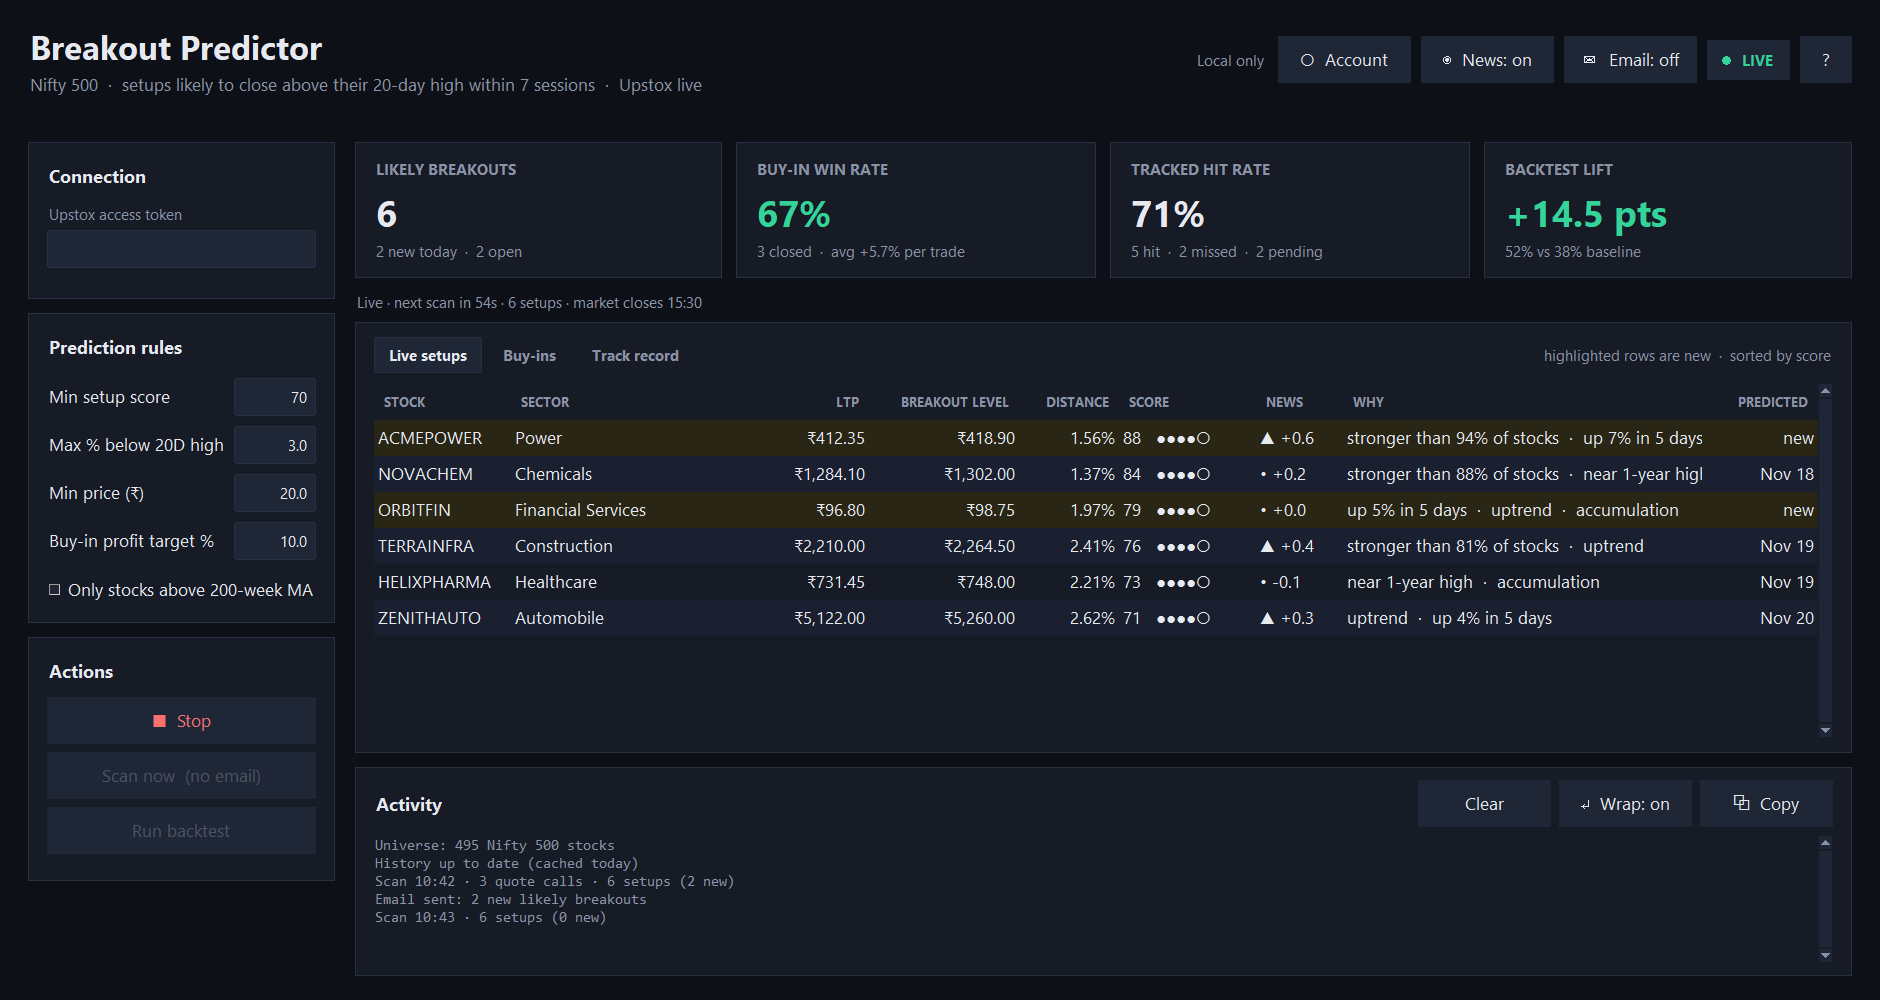
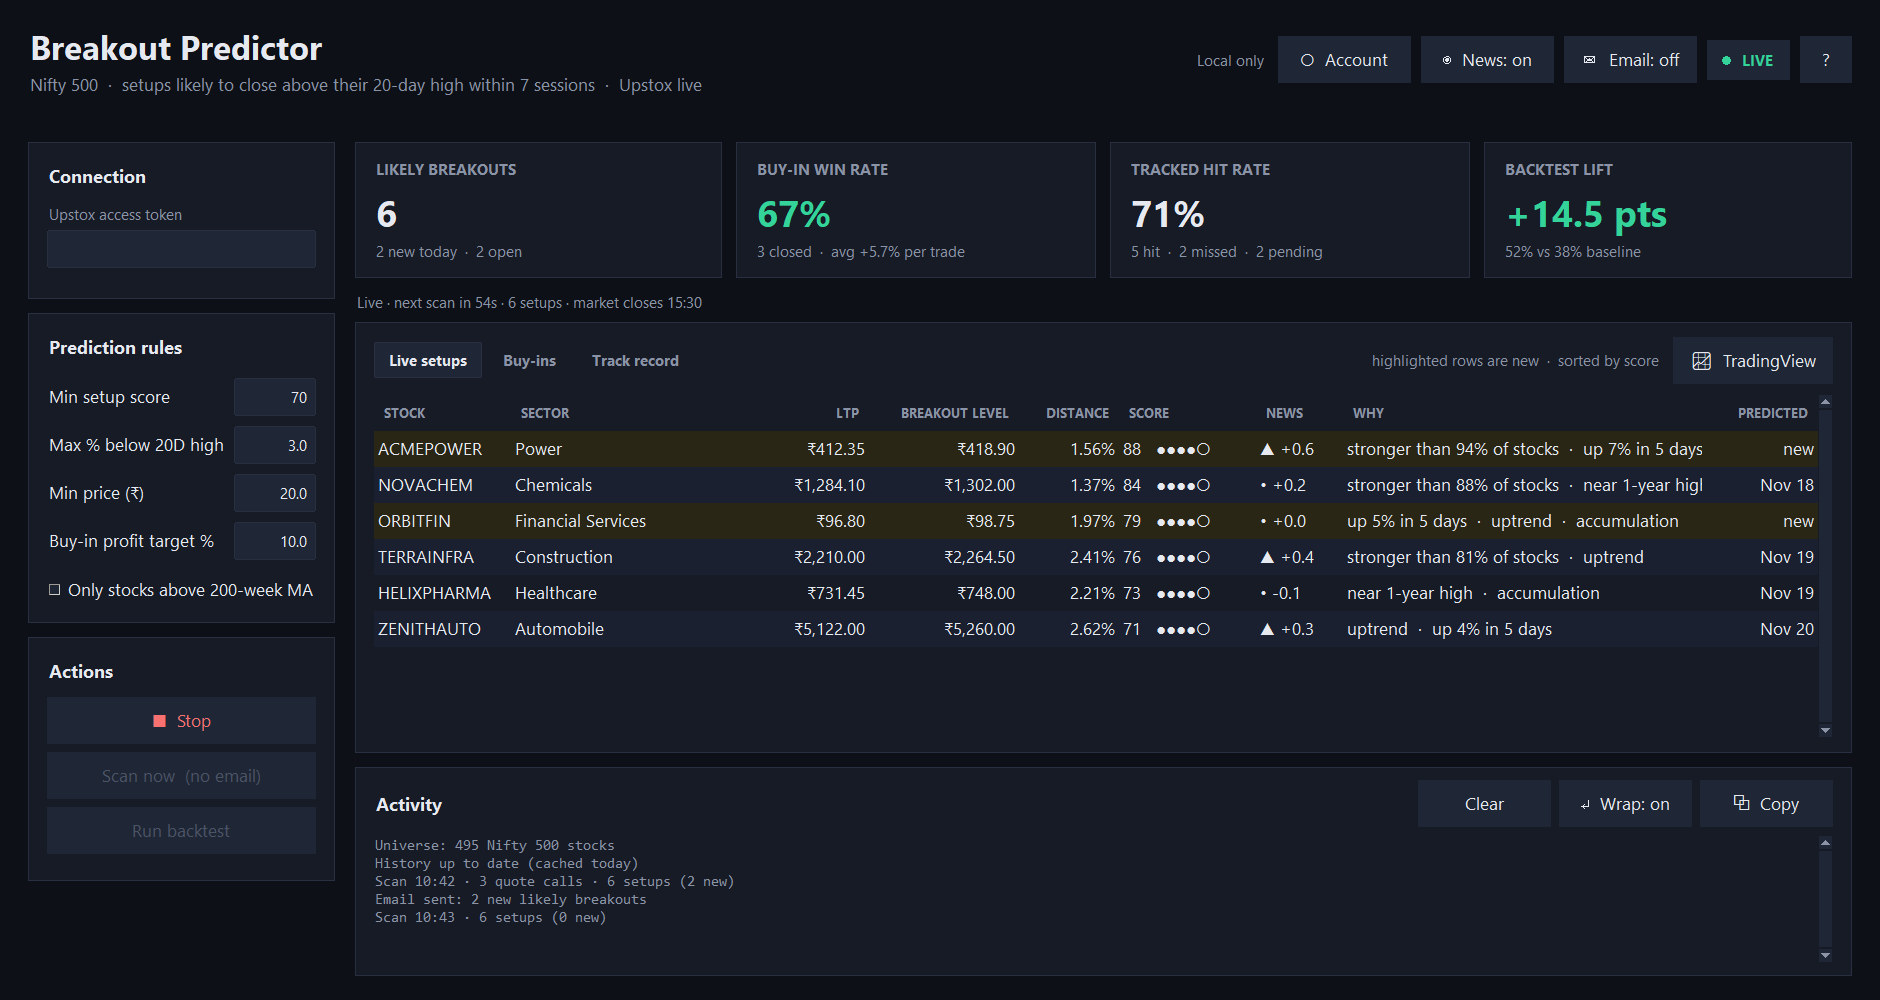
Open TradingView Supercharts for any row (button, Ctrl+T, right-click)
- A "TradingView" button in the table header and Ctrl+T open the
  selected stock's Supercharts in the current tab.
- The chart opens in an Edge --app window (no tabs or address bar),
  sized and placed over the app. Sizes are converted to DIPs for
  display scaling. Without Edge, it opens in the default browser.
- Right-clicking a row in any table opens a menu: TradingView, in my
  browser, News (Live setups), My buy / sell (Buy-ins), Copy symbol.
- Symbols follow TradingView's NSE naming: '-' becomes '_'
  (BAJAJ-AUTO -> BAJAJ_AUTO) and '&' is kept (J&KBANK). Both were
  checked against TradingView.
- TradingView can't be drawn inside the Tk window (no web engine; the
  app stays stdlib-only). The guide, README and CLAUDE.md say so.

Changed region(s): [[0.1851, 0.341, 0.9872, 0.651]]

diff --git a/breakout_predictor_app.py b/breakout_predictor_app.py
@@ -34,7 +34,9 @@ import json
 import os
 import queue
 import re
+import shutil
 import smtplib
+import subprocess
 import ssl
 import threading
 import time
@@ -2015,6 +2017,27 @@ def load_secret(name):
         return ""
 
 
+# =========================================================================== TradingView
+def tradingview_url(symbol):
+    """Supercharts for an NSE symbol. TradingView writes '-' as '_' (BAJAJ-AUTO -> BAJAJ_AUTO) and keeps '&'."""
+    return "https://www.tradingview.com/chart/?" + urllib.parse.urlencode({"symbol": f"NSE:{symbol.replace('-', '_')}"})
+
+
+def find_edge():
+    for path in (shutil.which("msedge"),
+                 os.path.expandvars(r"%ProgramFiles(x86)%\Microsoft\Edge\Application\msedge.exe"),
+                 os.path.expandvars(r"%ProgramFiles%\Microsoft\Edge\Application\msedge.exe")):
+        if path and os.path.exists(path):
+            return path
+    return None
+
+
+def tradingview_command(symbol, edge, geometry):
+    """Edge 'app' window (no tabs or address bar) over the app: (x, y, w, h) in screen pixels."""
+    x, y, w, h = geometry
+    return [edge, f"--app={tradingview_url(symbol)}", f"--window-size={w},{h}", f"--window-position={x},{y}"]
+
+
 def windows_setup():
     try:
         import ctypes
@@ -2077,6 +2100,9 @@ class App(tk.Tk):
             self._cloud_task(resume, "restored")
         self.protocol("WM_DELETE_WINDOW", self._on_close)
         self.bind("<F1>", lambda e: self.open_help())
+        self.bind("<Control-t>", lambda e: self.open_tradingview())
+        for tree in (self.tree, self.buyins, self.track):
+            tree.bind("<Button-3>", lambda e, t=tree: self._row_menu(e, t))
         self.tray = None
         self.tray_hint_shown = False
         if os.name == "nt":
@@ -2275,6 +2301,9 @@ class App(tk.Tk):
             self.tab_btns[name] = ttk.Button(head, text=text, style="Seg.TButton", width=-4,
                                              command=lambda n=name: self._show_tab(n))
             self.tab_btns[name].pack(side="left", padx=(0, 6))
+        self.chart_btn = ttk.Button(head, text="📈  TradingView", style="Ghost.TButton",
+                                    command=lambda: self.open_tradingview())
+        self.chart_btn.pack(side="right", padx=(12, 0))
         self.tab_hint = ttk.Label(head, style="Hint.TLabel")
         self.tab_hint.pack(side="right")
 
@@ -2820,6 +2849,56 @@ class App(tk.Tk):
         ttk.Button(row, text="Save", style="Accent.TButton", command=save).pack(side="right")
         win.grab_set()
 
+    # ------------------------------------------------------------------ TradingView + row menu
+    def _selected_symbol(self):
+        for tree in (self.tree, self.buyins, self.track):
+            if tree.winfo_ismapped() and tree.selection():
+                return tree.set(tree.selection()[0], "symbol")
+        return None
+
+    def open_tradingview(self, symbol=None, browser=False):
+        """Supercharts for the selected row: in an Edge app window over this one, or the default browser."""
+        symbol = symbol or self._selected_symbol()
+        if not symbol:
+            messagebox.showinfo("TradingView", "Select a stock in the table first (or right-click it).")
+            return
+        url = tradingview_url(symbol)
+        edge = None if browser else find_edge()
+        if edge:
+            # Edge takes window size/position in device-independent pixels; Tk reports physical ones.
+            x, y = int(self.winfo_rootx() / self.k) + 40, int(self.winfo_rooty() / self.k) + 20
+            w, h = max(900, int(self.winfo_width() / self.k) - 80), max(600, int(self.winfo_height() / self.k) - 60)
+            try:
+                subprocess.Popen(tradingview_command(symbol, edge, (x, y, w, h)), close_fds=True)
+                self._log(f"TradingView: {symbol}")
+                return
+            except OSError:
+                pass  # fall back to the default browser
+        webbrowser.open(url)
+        self._log(f"TradingView: {symbol} (browser)")
+
+    def _row_menu(self, event, tree):
+        iid = tree.identify_row(event.y)
+        if not iid:
+            return
+        tree.selection_set(iid)
+        tree.focus(iid)
+        symbol = tree.set(iid, "symbol")
+        menu = tk.Menu(self, tearoff=0, bg=P["surface2"], fg=P["text"], activebackground=P["selected"],
+                       activeforeground=P["text"], bd=0, font=(FONT, 10))
+        menu.add_command(label=f"📈  {symbol} on TradingView", command=lambda: self.open_tradingview(symbol))
+        menu.add_command(label="     … in my browser", command=lambda: self.open_tradingview(symbol, browser=True))
+        if tree is self.tree:
+            menu.add_command(label="📰  News", command=self.open_news_window)
+        if tree is self.buyins:
+            menu.add_command(label="✎  My buy / sell", command=self.open_my_trade_dialog)
+        menu.add_separator()
+        menu.add_command(label="Copy symbol", command=lambda: (self.clipboard_clear(), self.clipboard_append(symbol)))
+        try:
+            menu.tk_popup(event.x_root, event.y_root)
+        finally:
+            menu.grab_release()
+
     def open_news_window(self):
         sel = self.tree.selection()
         if not sel:
@@ -2993,6 +3072,10 @@ class App(tk.Tk):
               "bought at, and optionally where you sold. MY P&L then sits next to APP P&L. A • means the position "
               "is still open and is valued at the live price (or the last close)."),
         ("img", "mytrade.png"),
+        ("h2", "Charts (any table)"),
+        ("p", "Select a row in any table and click 📈 TradingView (or press Ctrl+T) to open its TradingView "
+              "Supercharts in a window over the app. Right-click a row for more: the chart in your normal browser "
+              "(where you may be signed in to TradingView), News, My buy / sell, or copy the symbol."),
         ("h2", "8.  Track record"),
         ("p", "Every live prediction is graded automatically: a hit is a daily close above the breakout level within "
               f"{HORIZON} sessions, a miss is anything else. Filter by hits, misses or still open."),

diff --git a/README.md b/README.md
@@ -86,6 +86,13 @@ valued at the live price (or the last close).
 
 <img src="docs/images/mytrade.png" width="520" alt="My trade dialog">
 
+### Charts
+
+Select a row in any table and click **📈 TradingView** (or press **Ctrl+T**). The stock's TradingView Supercharts
+opens in a window over the app: an Edge app window, with no tabs or address bar. Right-click a row for more: the
+chart in your normal browser (useful if you're signed in to TradingView there), News, My buy / sell, or Copy symbol.
+TradingView can't be drawn inside the app's own window, because Tkinter has no web engine.
+
 ### 8. Track record
 
 Every live prediction is graded automatically. A **hit** is a daily close above the breakout level within 7 sessions;

diff --git a/CLAUDE.md b/CLAUDE.md
@@ -118,6 +118,9 @@ Changing the scoring changes all three.
 - `Tray` puts a notification-area icon on its own Win32 message loop. With `close_to_tray`, the window's X hides the
   app; tray → Exit quits. A second launch finds the running copy through the tray window class and opens it.
 - New setups must never raise or focus the window: `_notify` only chimes and updates the title.
+- 📈 TradingView / Ctrl+T / the right-click menu (`_row_menu`) open `tradingview_url` in an Edge `--app` window
+  (`tradingview_command`, sizes in DIPs, so divide Tk's pixels by `self.k`), else the default browser.
+  TradingView writes NSE '-' as '_' and keeps '&'.
 
 ## Workflow notes
 
